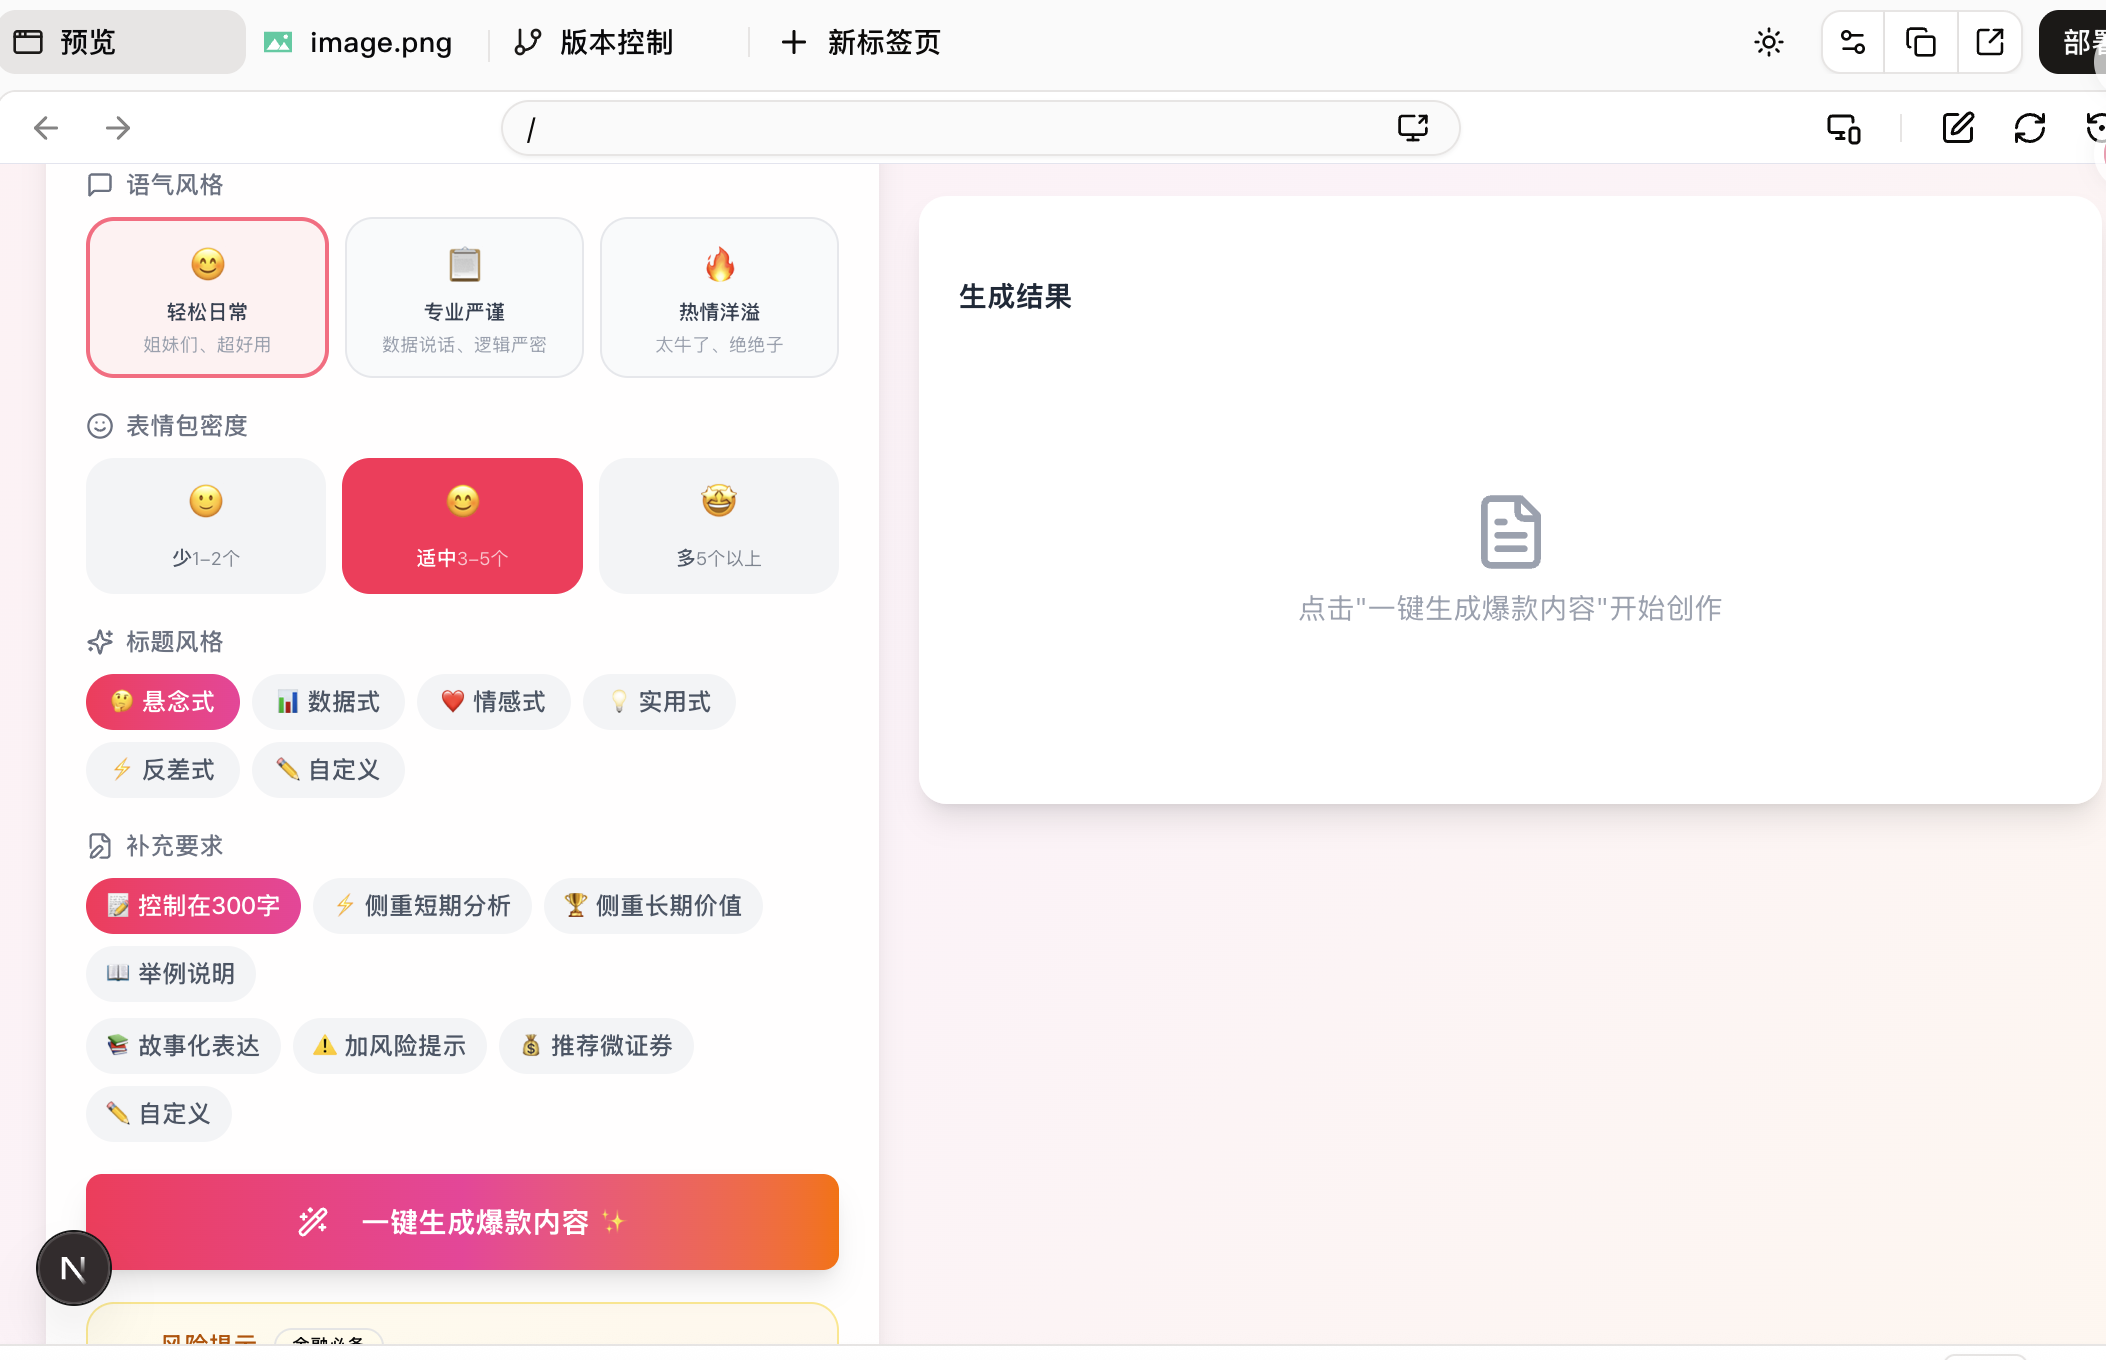
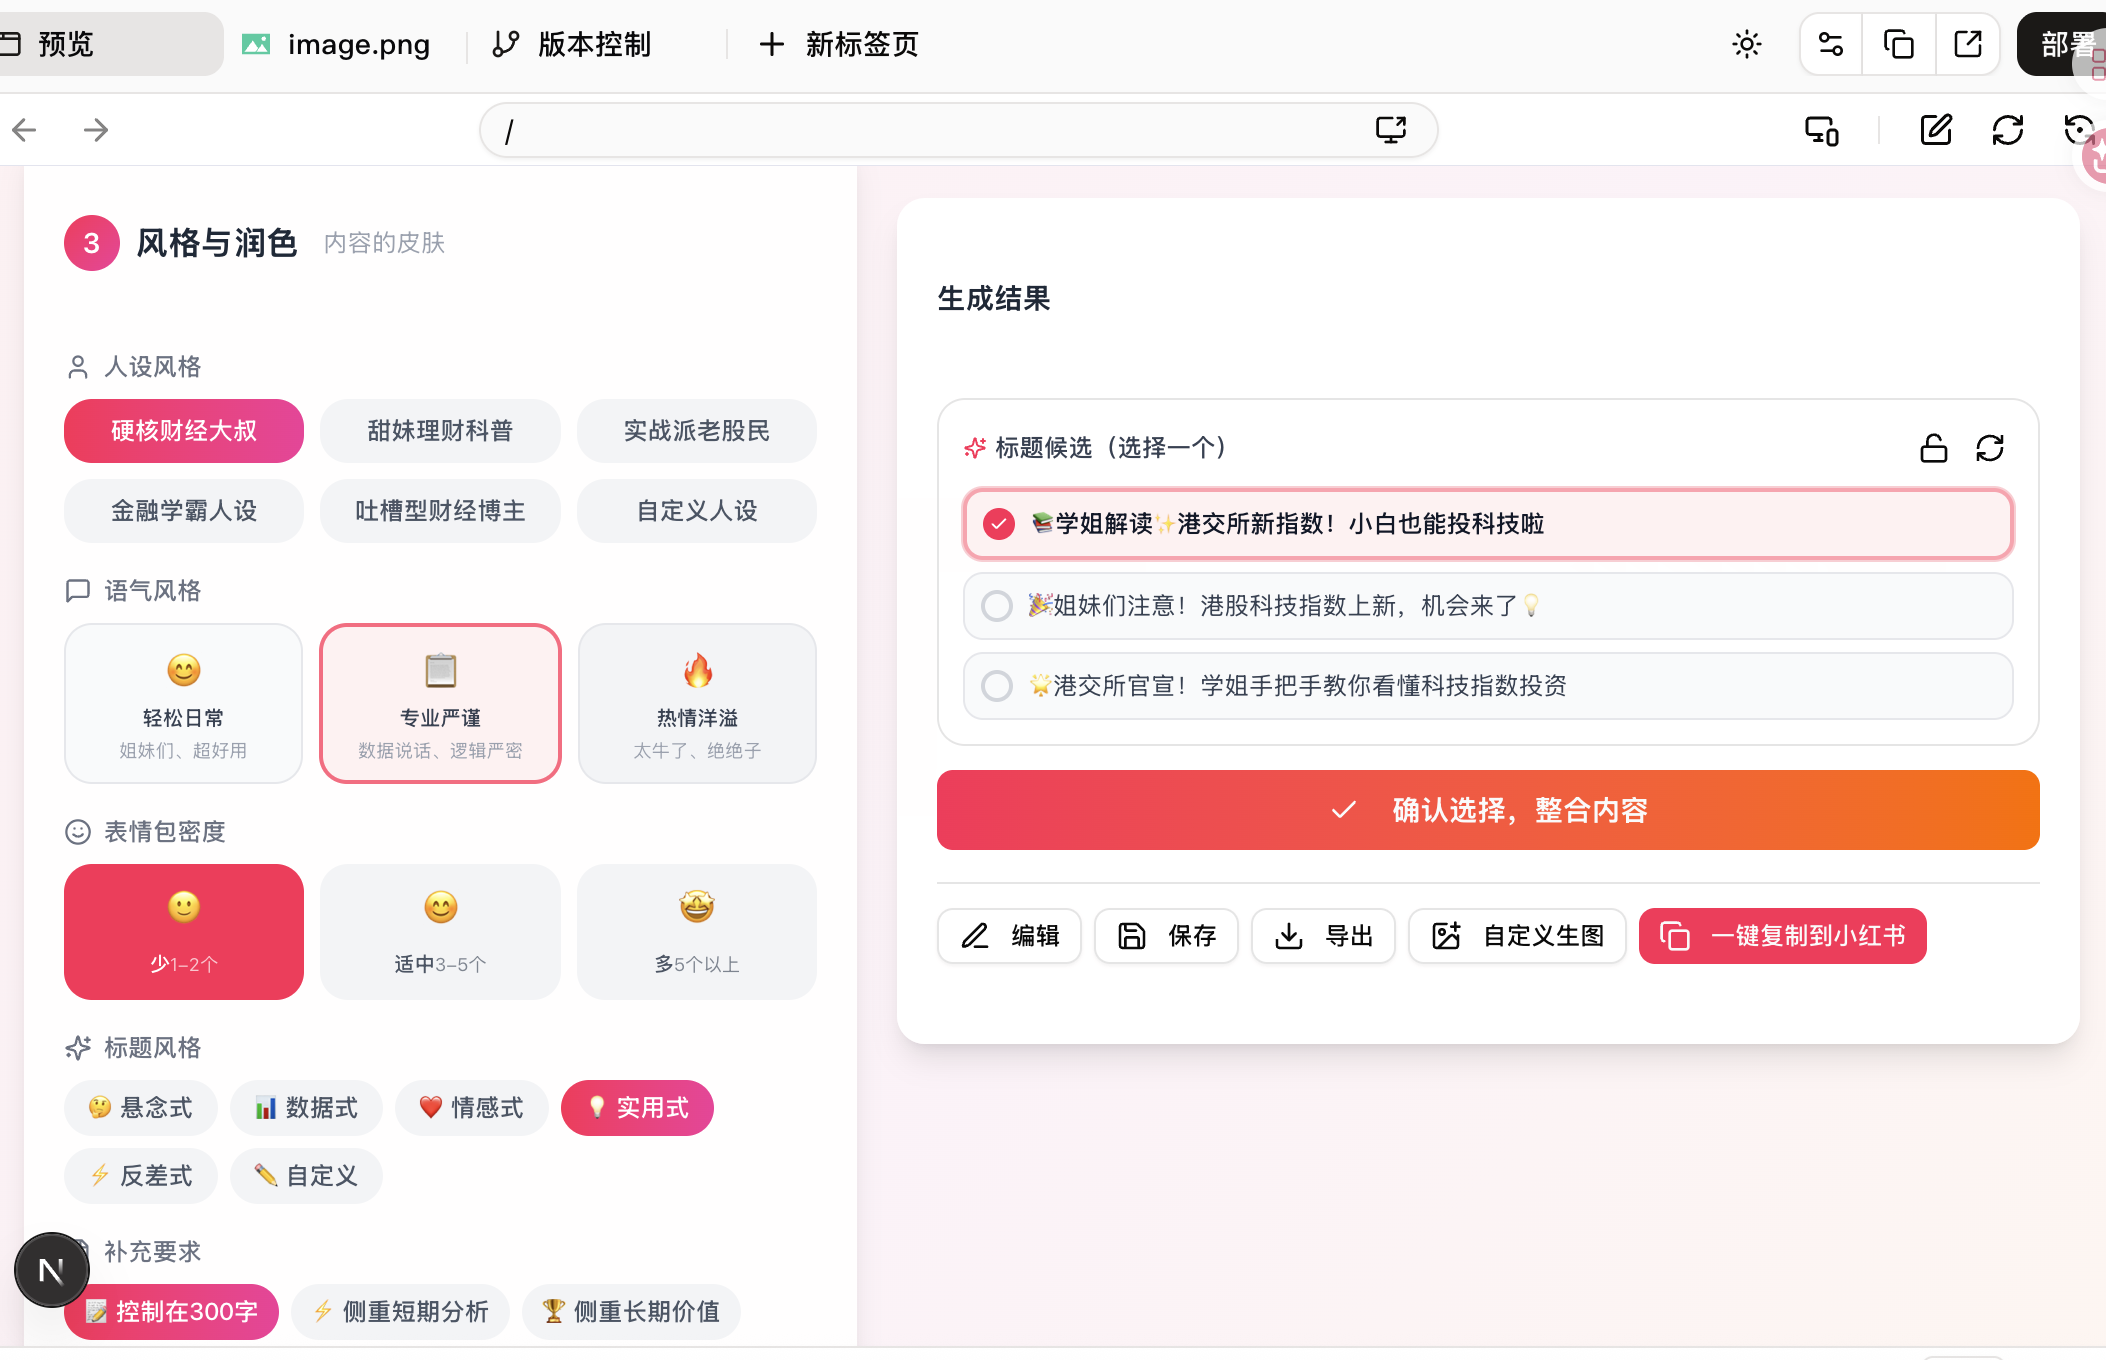
fix: 修复人设风格和内容生成流程

diff --git a/src/app/page.tsx b/src/app/page.tsx
@@ -234,6 +234,11 @@ export default function Home() {
     setShowTitlePreview(true);
     setCurrentStep('生成标题中...');
     setViewMode('split');
+    setContent(''); // 清空之前的内容
+    setTitles([]);
+    setTags([]);
+    setImageUrls([]);
+    setEngagementScore(null);
 
     try {
       const response = await fetch('/api/generate', {
@@ -243,7 +248,7 @@ export default function Home() {
           topicType, userTag, contentType, keywords,
           analysisTarget, analysisTargetInput, contentDepth, focusDirections,
           contentSubType, platformCompare, includeExample, includeResearch,
-          videoDuration, videoStyle: videoStyle, enableImageSuggestion: false,
+          videoDuration, videoStyle: videoStyle, enableImageSuggestion: enableImageSuggestion,
           titleStyles, customTitleStyle, personaType, customPersona,
           additionalRequirements: enableRiskWarning ? ['risk_warning'] : [],
           customRequirement,
@@ -254,8 +259,10 @@ export default function Home() {
           toneStyle,
           emojiDensity,
           enableRiskWarning,
-          // 只生成标题
-          generateOnlyTitles: true,
+          // 一次性生成标题和内容，不再分步
+          generateOnlyTitles: false,
+          // 传递当前选择的标题索引（如果已有）
+          selectedTitleIndex: selectedTitleIndex,
         }),
       });
 
@@ -282,26 +289,50 @@ export default function Home() {
                     setCurrentStep(data.data);
                     break;
                   case 'titles':
-                    setGeneratedTitles(data.data.map((t: any) => t.title));
+                    setGeneratedTitles(data.data.map((t: any) => t.title || t));
+                    // 同时更新titles数组（兼容不同的标题格式）
+                    setTitles(data.data.map((t: any) => typeof t === 'string' ? { title: t, style: 'suspense' } : t));
                     // 默认选中第一个
                     if (data.data.length > 0) {
                       setSelectedTitleIndex(0);
                     }
                     break;
+                  case 'content':
+                    setContent(prev => prev + data.data);
+                    break;
+                  case 'content_end':
+                    // 内容结束标记
+                    break;
+                  case 'tags':
+                    setTags(data.data);
+                    break;
+                  case 'images':
+                    setImageUrls(data.data);
+                    break;
+                  case 'music':
+                    setRecommendedMusic(data.data);
+                    break;
+                  case 'compliance':
+                    setCompliance(data.data);
+                    if (!data.data.isCompliant && !userEdited && data.data.fixedContent) {
+                      setEditableContent(data.data.fixedContent);
+                      setContent(data.data.fixedContent);
+                      setCompliance(prev => ({ ...prev, fixed: true }));
+                    }
+                    break;
                   case 'engagement_score':
+                    setEngagementScore(data.data);
                     setCurrentStep('');
+                    setShowTitlePreview(false);
+                    toast.success('生成完成！');
                     break;
                 }
               } catch (e) {}
             }
           }
         }
-        // 标题生成完成后，如果提供了回调则执行
-        if (onComplete) {
-          onComplete();
-        } else {
-          toast.success('标题已生成，请选择一个并生成完整内容');
-        }
+        // 生成完成
+        toast.success('生成完成！');
       }
     } catch (error) {
       console.error('生成错误:', error);
@@ -431,16 +462,11 @@ export default function Home() {
     }
   }, [selectedTitleIndex, generatedTitles, topicType, userTag, contentType, keywords, selectedHotTopic, hotTop3Tags, analysisLogic, toneStyle, emojiDensity, enableRiskWarning, personaType, lockedModules, userEdited]);
 
-  // 保留原来的handleGenerate用于直接生成（兼容旧逻辑）
+  // 保留原来的handleGenerate用于直接生成
   const handleGenerate = useCallback(async () => {
-    // 先生成标题，标题生成完成后自动生成完整内容
-    await handleGenerateTitles(() => {
-      // 标题生成完成后，等待状态更新后生成完整内容
-      setTimeout(() => {
-        handleGenerateFullContent();
-      }, 500);
-    });
-  }, [handleGenerateTitles, handleGenerateFullContent]);
+    // 直接调用handleGenerateTitles，它会一次性生成标题和内容
+    await handleGenerateTitles();
+  }, [handleGenerateTitles]);
 
   // ==================== 自定义生图 ====================
   const handleCustomImageGenerate = async () => {

diff --git a/src/app/api/generate/route.ts b/src/app/api/generate/route.ts
@@ -98,7 +98,7 @@ export async function POST(request: NextRequest) {
           controller.enqueue(encoder.encode(`data: ${JSON.stringify({ type: 'status', data: '正在生成标题...' })}\n\n`));
           const titles = await generateStructuredTitles(
             topicType, userTag, contentType, keywords, hotTopicInfo,
-            hotTopicTags, inputTitles
+            hotTopicTags, inputTitles, personaType
           );
           controller.enqueue(encoder.encode(`data: ${JSON.stringify({ type: 'titles', data: titles })}\n\n`));
 
@@ -198,15 +198,29 @@ async function generateStructuredTitles(
   keywords?: string,
   hotTopicInfo?: string,
   hotTopicTags?: string[],
-  inputTitles?: TitleCandidate[]
+  inputTitles?: TitleCandidate[],
+  personaType?: string
 ): Promise<TitleCandidate[]> {
   
   const userLevel = USER_LEVEL_REQUIREMENTS[userTag];
+  
+  // 人设风格对应的标题要求
+  const personaTitleStyles = {
+    hardcore_uncle: `语气沉稳老练，自带权威感，可用中年男人睿智风格`,
+    sweet_girl: `语气甜美亲切，像闺蜜聊天，可用"姐妹们"、"小可爱们"`,
+    veteran_trader: `实战派老股民风格，直接干脆，有多年市场经验感`,
+    finance_scholar: `学术气息，理性严谨，喜欢引用数据和研报`,
+    roaster: `幽默犀利，敢于吐槽，用吐槽方式吸引眼球`,
+    custom: `根据用户自定义人设调整语气`,
+  };
   
   // 如果有预设标题，直接返回
   if (inputTitles && inputTitles.length > 0) {
     return inputTitles;
   }
+
+  const selectedPersona = personaType || 'custom';
+  const personaStyle = personaTitleStyles[selectedPersona as keyof typeof personaTitleStyles] || personaTitleStyles.custom;
 
   const prompt = `【结构化标题生成】
 
@@ -215,6 +229,7 @@ async function generateStructuredTitles(
 【选题信息】
 选题类型：${TOPIC_TYPE_PROMPTS[topicType]}
 目标用户层级：${USER_TAG_CONTENT_MAP[userTag]}
+人设风格：${selectedPersona}
 内容形式：${contentType === 'article' ? '图文内容' : '视频脚本'}
 ${keywords ? `用户输入关键词：${keywords}` : ''}
 ${hotTopicTags && hotTopicTags.length > 0 ? `热点标签（选其一融入标题）：${hotTopicTags.join('、')}` : ''}
@@ -223,13 +238,8 @@ ${hotTopicInfo ? `热点背景：\n${hotTopicInfo.substring(0, 300)}` : ''}
 【标题规范 - 必须严格遵守】
 1. 长度：≤20字（不含Emoji）
 2. 必须包含：1-3个Emoji
-3. 必须体现：用户层级风格（${userLevel.style}）
+3. 必须体现：${personaStyle}
 4. 必须可二次编辑
-
-【用户层级风格示例】
-- 新手：📈姐妹们！这个信号出现就要注意了
-- 进阶：🔥机构都在抄底这个板块
-- 专业：📊宏观数据超预期，如何配置？
 
 【输出格式】
 直接输出3个标题，每行一个，格式为"emoji 标题内容"：
